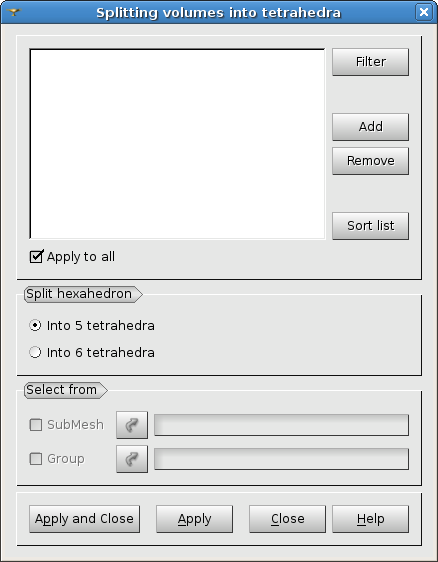
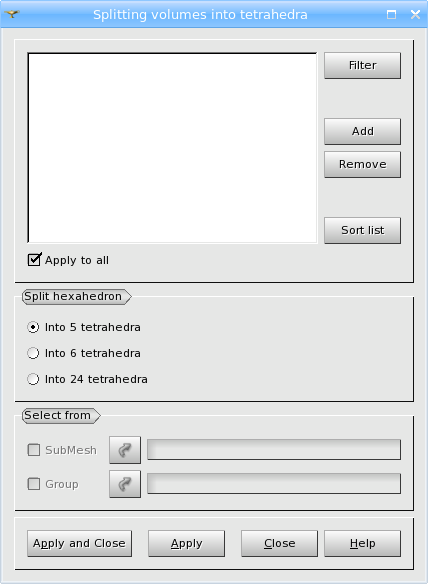
0020889: EDF 1433 SMESH: SplitHexaToTetra: add the 24 tetras mode  * Add HEXA_TO_24 splitting mode

Changed region(s): [[0.0, 0.0, 1.0, 1.0]]

diff --git a/src/SMESHGUI/SMESH_msg_en.ts b/src/SMESHGUI/SMESH_msg_en.ts
@@ -4855,6 +4855,10 @@ It is impossible to read point coordinates from file</translation>
         <source>SPLIT_HEX_TO_6_TETRA</source>
         <translation>Into 6 tetrahedra</translation>
     </message>
+    <message>
+        <source>SPLIT_HEX_TO_24_TETRA</source>
+        <translation>Into 24 tetrahedra</translation>
+    </message>
 </context>
 <context>
     <name>SMESHGUI_PrecisionDlg</name>
